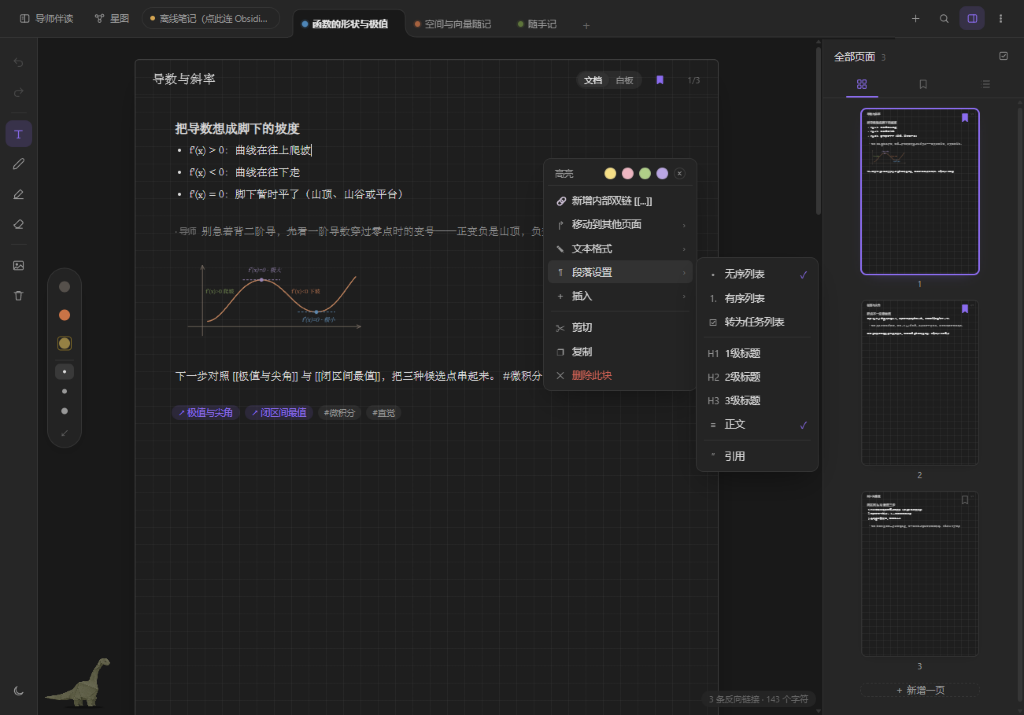
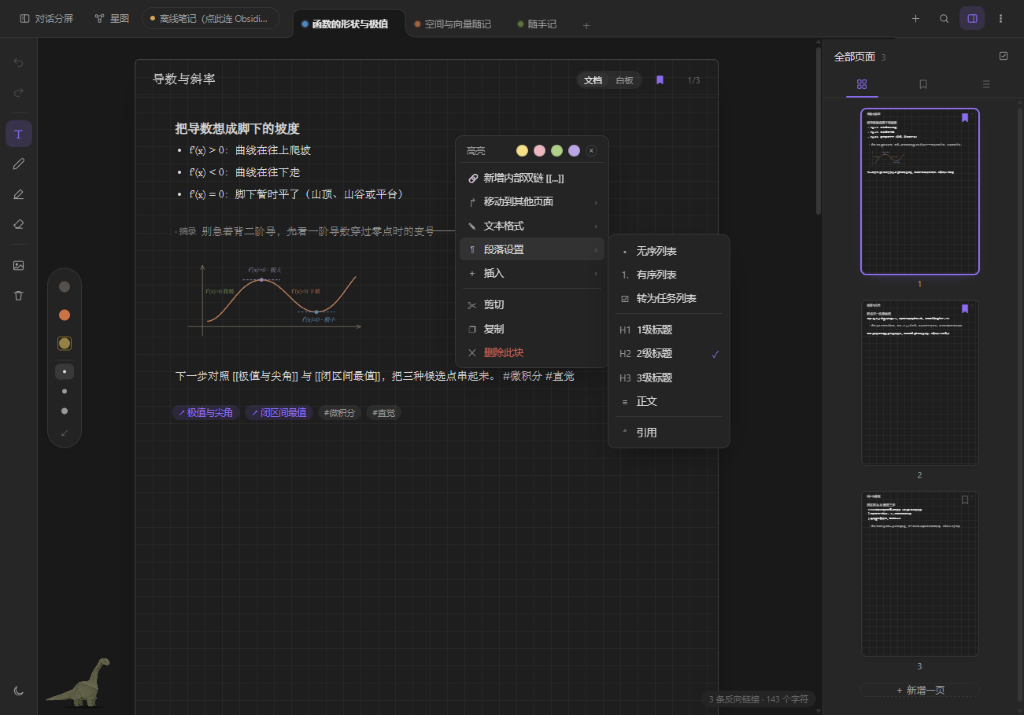
chore: decouple wording and refresh clean preview screenshots

diff --git a/index.html b/index.html
@@ -3,11 +3,11 @@
 <head>
 <meta charset="utf-8">
 <meta name="viewport" content="width=device-width, initial-scale=1">
-<title>AI 导师 · 伴读折纸笔记</title>
+<title>折纸笔记 · 对话长出笔记</title>
 <style>
 :root{
   --bg:#F5EAE1; --bg2:#EFE2D6; --ink:#5C493C; --ink2:#958476; --ink3:#B9AC9E; --line:#E3D5C7;
-  --field:#FBF4EC; --bubble:#EAE0D4; --paper:#FBF4E8; --paper-wb:#FFFDF9; --paper-ink:#4A433C; --tutor-note:#8C8278;
+  --field:#FBF4EC; --bubble:#EAE0D4; --paper:#FBF4E8; --paper-wb:#FFFDF9; --paper-ink:#4A433C; --quote-note:#8C8278;
   --accent:#4E86B8; --sel-bg:rgba(78,134,184,.18); --menu-bg:#FFFDF9; --menu-hover:rgba(120,100,70,.08);
   --soft:"Songti SC","STSong","Noto Serif SC","PingFang SC","Hiragino Sans GB","Microsoft YaHei UI",serif;
   --ui:"PingFang SC","Hiragino Sans GB","Segoe UI","Microsoft YaHei UI","Noto Sans SC",system-ui,sans-serif;
@@ -16,7 +16,7 @@
 }
 body.night{
   --bg:#262626; --bg2:#191919; --ink:#DADADA; --ink2:#999999; --ink3:#686868; --line:#363636;
-  --field:#242424; --bubble:#303030; --paper:#1E1E1E; --paper-wb:#1E1E1E; --paper-ink:#DCDCDC; --tutor-note:#909090;
+  --field:#242424; --bubble:#303030; --paper:#1E1E1E; --paper-wb:#1E1E1E; --paper-ink:#DCDCDC; --quote-note:#909090;
   --accent:#8B6CEF; --sel-bg:rgba(139,108,239,.32); --menu-bg:#242424; --menu-hover:#323232;
 }
 *{box-sizing:border-box;margin:0;padding:0}
@@ -35,7 +35,7 @@ body{background:var(--bg);color:var(--ink);font-family:var(--ui);transition:back
 .nav-btn svg{width:17px;height:17px;fill:none;stroke:currentColor;stroke-width:1.6;stroke-linecap:round;stroke-linejoin:round}
 .nav-sp{flex:1}
 
-/* ───── 左侧：AI 导师极简对话区 ───── */
+/* ───── 左侧：极简对话区 ───── */
 .chat-pane{flex:1;min-width:340px;display:flex;flex-direction:column;position:relative;padding:12px 24px 18px 16px}
 .chat-head{height:36px;display:flex;align-items:center;gap:10px;flex:none;color:var(--ink2);font-size:12.5px}
 .chat-back{width:28px;height:28px;border:0;border-radius:8px;background:transparent;color:var(--ink2);cursor:pointer;display:grid;place-items:center}
@@ -187,13 +187,13 @@ body.night .hl-purple{background-color:rgba(139,108,239,.24)!important}
 .rich h3{font:600 13.6px/1.5 var(--soft);margin:0 0 2px}
 .rich p{margin:2px 0}
 .rich ul,.rich ol{padding-left:18px;margin:2px 0}
-.rich blockquote{margin:3px 0;padding-left:9px;border-left:2px solid var(--accent);color:var(--tutor-note)}
+.rich blockquote{margin:3px 0;padding-left:9px;border-left:2px solid var(--accent);color:var(--quote-note)}
 .rich code{font-family:var(--mono);font-size:12px;background:color-mix(in srgb,var(--ink) 8%,transparent);padding:1px 4px;border-radius:4px}
 .task-row{display:flex;align-items:flex-start;gap:7px;padding:2px 4px;border-radius:8px;font:400 13.2px/1.82 var(--soft)}
 .task-row input{margin-top:5px;accent-color:var(--accent);cursor:pointer;flex:none}
 .task-row.done .task-txt{text-decoration:line-through;opacity:.55}
 .task-txt{flex:1;outline:none;cursor:text}
-.quote-row{padding:2px 4px;border-radius:8px;font:400 13px/1.84 var(--soft);color:var(--tutor-note);cursor:text}
+.quote-row{padding:2px 4px;border-radius:8px;font:400 13px/1.84 var(--soft);color:var(--quote-note);cursor:text}
 .quote-row .q-tag{font:400 10px var(--ui);opacity:.72;margin-right:6px;user-select:none}
 
 /* Obsidian 风格可拖拽右下角缩放图片块 */
@@ -287,7 +287,7 @@ body.night .thumb-card{background-image:linear-gradient(to right,rgba(255,255,25
 .tm-blk h1{font:700 22px/1.4 var(--soft)}
 .tm-blk h2{font:600 19px/1.45 var(--soft)}
 .tm-blk ul,.tm-blk ol{padding-left:22px}
-.tm-quote{color:var(--tutor-note);font-size:14.5px}
+.tm-quote{color:var(--quote-note);font-size:14.5px}
 .tm-img img{display:block;max-width:100%;height:auto;object-fit:contain}
 .tm-img.is-svg img{mix-blend-mode:multiply}
 body.night .tm-img.is-svg img{mix-blend-mode:normal;filter:invert(.88) hue-rotate(180deg)}
@@ -345,23 +345,23 @@ body.night .tm-img.is-svg img{mix-blend-mode:normal;filter:invert(.88) hue-rotat
 <div class="app">
   <!-- 最左极简导航栏 -->
   <nav class="nav-rail">
-    <div class="brand" title="AI 导师">
+    <div class="brand" title="折纸笔记">
       <svg viewBox="0 0 28 28" width="24" height="24"><path d="M5 7l10-3 8 7-6 13-11-4z" fill="#6F8F4A"/><path d="M15 4l8 7-11 2z" fill="#89A962"/></svg>
     </div>
     <button type="button" class="nav-btn" title="主页"><svg viewBox="0 0 24 24"><path d="M4 11l8-6.5L20 11v8.5a1 1 0 0 1-1 1h-4.5v-5.5h-5v5.5H5a1 1 0 0 1-1-1z"/></svg></button>
-    <button type="button" class="nav-btn on" id="navNbToggle" title="展开 / 收起右侧伴读笔记本"><svg viewBox="0 0 24 24"><path d="M4.5 6.5A2.5 2.5 0 0 1 7 4h11.5v16H7a2.5 2.5 0 0 0-2.5 2z"/><path d="M4.5 6.5v15.5"/></svg></button>
+    <button type="button" class="nav-btn on" id="navNbToggle" title="展开 / 收起右侧笔记本"><svg viewBox="0 0 24 24"><path d="M4.5 6.5A2.5 2.5 0 0 1 7 4h11.5v16H7a2.5 2.5 0 0 0-2.5 2z"/><path d="M4.5 6.5v15.5"/></svg></button>
     <a class="nav-btn" href="./desk.html" title="进入独立全屏折纸书桌"><svg viewBox="0 0 24 24"><rect x="4" y="4" width="16" height="16" rx="2.5"/><path d="M9 9h6M9 13h6M9 17h4"/></svg></a>
     <div class="nav-sp"></div>
     <button type="button" class="nav-btn" id="themeBtn" title="切换暗夜模式（Obsidian 炭黑）"><svg viewBox="0 0 24 24"><path d="M19.5 14.5A7.5 7.5 0 0 1 9.5 4.5a7.5 7.5 0 1 0 10 10z"/></svg></button>
   </nav>
 
-  <!-- 左侧：AI 导师极简对话区 -->
+  <!-- 左侧：极简对话区 -->
   <section class="chat-pane">
     <div class="chat-head">
       <button type="button" class="chat-back" title="返回"><svg viewBox="0 0 24 24"><path d="M15 6l-6 6 6 6"/></svg></button>
-      <span>微积分伴读 · 函数的形状与极值</span>
+      <span>微积分随聊 · 函数的形状与极值</span>
       <div class="chat-hint">
-        <span>划选导师文字可拖入右侧笔记</span>
+        <span>划选回复文字可拖入右侧笔记</span>
         <span class="vault-mini"><i id="vaultDot"></i><span id="vaultName">连接中…</span></span>
       </div>
     </div>
@@ -461,7 +461,7 @@ body.night .tm-img.is-svg img{mix-blend-mode:normal;filter:invert(.88) hue-rotat
   </aside>
 </div>
 
-<button type="button" class="dock-pill" id="dockPill" title="展开伴读笔记本">折纸笔记</button>
+<button type="button" class="dock-pill" id="dockPill" title="展开笔记本">折纸笔记</button>
 <div class="sel-handle" id="selHandle"><svg viewBox="0 0 24 24"><path d="M9 5h6M9 12h6M9 19h6"/></svg><span>拖入笔记</span></div>
 
 <div class="quick-add-pop" id="quickAddPop">
@@ -532,7 +532,7 @@ function mdToBlocks(md){
       blocks.push({ id: nextId('tk'), type: 'task', hl: '', done: /^-\s+\[[xX]\]/.test(l), text: l.replace(/^-\s+\[[ xX]\]\s+/,''), x:28, y:28+blocks.length*80, w:260, h:54 });
     } else if(/^>\s+/.test(l)){
       flush();
-      blocks.push({ id: nextId('q'), type: 'quote', hl: '', text: l.replace(/^>\s+/,'').replace(/^·\s*导师\s*/,''), x:28, y:28+blocks.length*95, w:280, h:82 });
+      blocks.push({ id: nextId('q'), type: 'quote', hl: '', text: l.replace(/^>\s+/,'').replace(/^·\s*摘录\s*/,''), x:28, y:28+blocks.length*95, w:280, h:82 });
     } else buf.push(l);
   }
   flush();
@@ -564,7 +564,7 @@ function pageToMarkdown(page){
   return page.blocks.map(b => {
     if(b.type==='text') return htmlToMd(b.html);
     if(b.type==='task') return `- [${b.done?'x':' '}] ${b.text||''}`;
-    if(b.type==='quote') return `> · 导师 ${b.text||''}`;
+    if(b.type==='quote') return `> · 摘录 ${b.text||''}`;
     if(b.type==='group') return `### ${b.label||'分组'}`;
     if(b.type==='web') return `[${b.label||b.url}](${b.url})`;
     return b.src && b.src.startsWith('data:') ? `![插图](${b.src})` : '';
@@ -798,7 +798,7 @@ function renderStage(){
         tr.append(cb, tt); content.appendChild(tr);
       } else if(blk.type === 'quote'){
         const qr = document.createElement('div'); qr.className = 'quote-row'+(blk.hl?' '+blk.hl:'');
-        const qt = document.createElement('span'); qt.className='q-tag'; qt.textContent='· 导师';
+        const qt = document.createElement('span'); qt.className='q-tag'; qt.textContent='· 摘录';
         const qb = document.createElement('span'); qb.contentEditable='true'; qb.textContent=blk.text||'';
         qb.oninput = () => { blk.text = qb.textContent; scheduleSavePage(book, pg); };
         qr.addEventListener('contextmenu', e => openBlockCtx(e, book, pg, blk, null));
@@ -883,7 +883,7 @@ function renderStage(){
         } else if(blk.type === 'image'){
           const im = document.createElement('img'); im.src = blk.src; nd.appendChild(im);
         } else if(blk.type === 'quote'){
-          nd.innerHTML = `<div class="quote-row"><span class="q-tag">· 导师</span>${escapeHtml(blk.text||'')}</div>`;
+          nd.innerHTML = `<div class="quote-row"><span class="q-tag">· 摘录</span>${escapeHtml(blk.text||'')}</div>`;
         } else if(blk.type === 'task'){
           nd.innerHTML = `<div class="task-row ${blk.done?'done':''}"><span>${blk.done?'☑':'☐'}</span><span>${escapeHtml(blk.text||'')}</span></div>`;
         } else if(blk.type === 'web'){
@@ -1086,7 +1086,7 @@ function openBoardCtx(e, book, page, boardL){
   ctxMenu.style.top = Math.max(8, Math.min(innerHeight - r.height - 8, e.clientY)) + 'px';
 }
 
-/* ───── 文字块拖拽调序 + 导师划词拖拽（均带清晰落地线） ───── */
+/* ───── 文字块拖拽调序 + 对话划词拖拽（均带清晰落地线） ───── */
 function startBlkDrag(e, book, page, blk, rowEl, blksWrap, dropLine){
   e.preventDefault(); e.stopPropagation();
   const ghost = document.createElement('div'); ghost.className = 'blk-drag-ghost';
@@ -1171,7 +1171,7 @@ addEventListener('mouseup', () => {
   }
 });
 
-/* ───── 左侧导师回复划词拖拽 ───── */
+/* ───── 左侧对话回复划词拖拽 ───── */
 const selHandle = $('selHandle');
 let pendingSelText = '';
 document.addEventListener('selectionchange', () => {
@@ -1190,7 +1190,7 @@ selHandle.addEventListener('mousedown', e => {
   e.preventDefault(); selHandle.classList.remove('show');
   if(APP.docked) setDocked(false);
   const ghost = document.createElement('div'); ghost.className = 'blk-drag-ghost';
-  ghost.textContent = '· 导师 ' + pendingSelText.slice(0, 28);
+  ghost.textContent = '· 摘录 ' + pendingSelText.slice(0, 28);
   ghost.style.left = (e.clientX+12)+'px'; ghost.style.top = (e.clientY-12)+'px';
   document.body.appendChild(ghost);
   selDrag = { text: pendingSelText, ghost, dropTarget: null };
@@ -1385,7 +1385,7 @@ function renderDrawer(){
       const mini = document.createElement('div'); mini.className = 'thumb-mini-stage';
       const blks = (pg.blocks||[]).map(b => {
         if(b.type==='text') return `<div class="tm-blk ${b.hl||''}">${b.html||''}</div>`;
-        if(b.type==='quote') return `<div class="tm-blk tm-quote ${b.hl||''}">· 导师 ${escapeHtml(b.text||'')}</div>`;
+        if(b.type==='quote') return `<div class="tm-blk tm-quote ${b.hl||''}">· 摘录 ${escapeHtml(b.text||'')}</div>`;
         if(b.type==='task') return `<div class="tm-blk">${b.done?'☑':'☐'} ${escapeHtml(b.text||'')}</div>`;
         if(b.type==='image') return `<div class="tm-blk tm-img ${b.isSvg?'is-svg':''}"><img src="${b.src}" style="width:${b.imgW||240}px"></div>`;
         return '';

diff --git a/desk.html b/desk.html
@@ -8,7 +8,7 @@
 :root{
   --bg:#F5EAE1; --bg2:#EFE2D6; --ink:#5C493C; --ink2:#958476; --ink3:#B9AC9E; --line:#E3D5C7;
   --field:#FBF4EC; --go:#B4693A; --go-ink:#FBF4EC;
-  --paper:#FBF4E8; --paper-wb:#FFFDF9; --paper-ink:#4A433C; --tutor-note:#8C8278;
+  --paper:#FBF4E8; --paper-wb:#FFFDF9; --paper-ink:#4A433C; --quote-note:#8C8278;
   --accent:#4E86B8; --sel-bg:rgba(78,134,184,.18); --menu-bg:#FFFDF9; --menu-hover:rgba(120,100,70,.08);
   --hand:"KaiTi","STKaiti","Kaiti SC","楷体",serif;
   --soft:"Songti SC","STSong","Noto Serif SC","PingFang SC","Hiragino Sans GB","Microsoft YaHei UI",serif;
@@ -19,7 +19,7 @@
 body.night{
   --bg:#262626; --bg2:#191919; --ink:#DADADA; --ink2:#999999; --ink3:#686868; --line:#363636;
   --field:#242424; --go:#9B7BF7; --go-ink:#FFFFFF;
-  --paper:#1E1E1E; --paper-wb:#1E1E1E; --paper-ink:#DCDCDC; --tutor-note:#909090;
+  --paper:#1E1E1E; --paper-wb:#1E1E1E; --paper-ink:#DCDCDC; --quote-note:#909090;
   --accent:#8B6CEF; --sel-bg:rgba(139,108,239,.32); --menu-bg:#242424; --menu-hover:#323232;
 }
 *{box-sizing:border-box;margin:0;padding:0}
@@ -173,7 +173,7 @@ body.night .hl-purple{background-color:rgba(139,108,239,.24)!important}
 .rich p,.ProseMirror p{margin:2px 0}
 .rich ul,.ProseMirror ul,.rich ol,.ProseMirror ol{padding-left:18px;margin:2px 0}
 .rich li,.ProseMirror li{margin:2px 0}
-.rich blockquote,.ProseMirror blockquote{margin:3px 0;padding-left:10px;border-left:2px solid color-mix(in srgb,var(--accent) 55%,var(--ink3));color:var(--tutor-note)}
+.rich blockquote,.ProseMirror blockquote{margin:3px 0;padding-left:10px;border-left:2px solid color-mix(in srgb,var(--accent) 55%,var(--ink3));color:var(--quote-note)}
 .rich code,.ProseMirror code{font-family:var(--mono);font-size:12.5px;background:color-mix(in srgb,var(--ink) 8%,transparent);padding:1px 5px;border-radius:4px}
 .rich pre,.ProseMirror pre{margin:5px 0;padding:8px 11px;border-radius:6px;background:color-mix(in srgb,var(--ink) 6%,transparent);font:12.5px/1.6 var(--mono);overflow-x:auto}
 .rich hr,.ProseMirror hr{border:0;border-top:1px solid var(--line);margin:8px 0}
@@ -184,7 +184,7 @@ body.night .hl-purple{background-color:rgba(139,108,239,.24)!important}
 .task-row.done .task-txt{text-decoration:line-through;opacity:.55}
 .task-txt{flex:1;outline:none;min-height:22px}
 
-.quote-row{padding:3px 5px;border-radius:8px;font:400 13.5px/1.88 var(--soft);color:var(--tutor-note);transition:background-color .16s,padding .16s}
+.quote-row{padding:3px 5px;border-radius:8px;font:400 13.5px/1.88 var(--soft);color:var(--quote-note);transition:background-color .16s,padding .16s}
 .quote-row .q-tag{font:400 10.5px var(--ui);opacity:.7;margin-right:7px;user-select:none}
 .img-row{position:relative;padding:4px;border-radius:8px;display:inline-block;max-width:100%;border:1px solid transparent;transition:border-color .15s}
 .img-row:hover,.img-row.resizing{border-color:color-mix(in srgb,var(--accent) 45%,transparent)}
@@ -306,8 +306,8 @@ body.night .thumb-card.lined{background-image:linear-gradient(to bottom,rgba(255
 .tm-blk h3{font:600 16.5px/1.5 var(--soft);margin:0 0 4px}
 .tm-blk p{margin:3px 0}
 .tm-blk ul,.tm-blk ol{padding-left:22px;margin:3px 0}
-.tm-blk blockquote{margin:4px 0;padding-left:12px;border-left:3px solid var(--accent);color:var(--tutor-note)}
-.tm-quote{color:var(--tutor-note);font-size:14.5px;padding:4px 8px}
+.tm-blk blockquote{margin:4px 0;padding-left:12px;border-left:3px solid var(--accent);color:var(--quote-note)}
+.tm-quote{color:var(--quote-note);font-size:14.5px;padding:4px 8px}
 .tm-task{display:flex;align-items:flex-start;gap:8px;font-size:15px}
 .tm-task.done{text-decoration:line-through;opacity:.55}
 .tm-img img{display:block;max-width:100%;max-height:300px;object-fit:contain;border-radius:6px}
@@ -404,9 +404,9 @@ body.night .tm-img.is-svg img{mix-blend-mode:normal;filter:invert(.88) hue-rotat
 <!-- 顶栏 -->
 <header class="topbar">
   <div class="top-left">
-    <a class="tbtn" id="tutorLink" href="./index.html" style="text-decoration:none" title="预览接入 AI 导师聊天旁的伴读形态">
+    <a class="tbtn" id="splitLink" href="./index.html" style="text-decoration:none" title="切换为对话 + 笔记双栏视图">
       <svg viewBox="0 0 24 24"><rect x="3.5" y="4.5" width="17" height="15" rx="2.5"/><path d="M12 4.5v15"/><path d="M6.5 9.5h3M6.5 13h2.5"/></svg>
-      <span>导师伴读</span>
+      <span>对话分屏</span>
     </a>
     <button type="button" class="tbtn" id="graphToggle" title="本地知识星图可视化">
       <svg viewBox="0 0 24 24"><circle cx="6" cy="7" r="2.5"/><circle cx="18" cy="6" r="2.5"/><circle cx="12" cy="17" r="2.8"/><path d="M8.2 8.2L10.6 14.6M16.2 7.8L13.5 14.6M8.5 6.8L15.5 6.2"/></svg>
@@ -586,9 +586,9 @@ function mdToBlocks(md=''){
   };
   for(const line of lines){
     const tr = line.trim();
-    if(tr.startsWith('> 导师：') || tr.startsWith('> · 导师')){
+    if(tr.startsWith('> 摘录：') || tr.startsWith('> · 摘录')){
       flush();
-      blocks.push({ id: nextId('q'), type: 'quote', hl: '', text: tr.replace(/^>\s*(·\s*)?导师[：:]?\s*/, ''), x: 350, y: 40 + blocks.length * 110, w: 280, h: 100 });
+      blocks.push({ id: nextId('q'), type: 'quote', hl: '', text: tr.replace(/^>\s*(·\s*)?摘录[：:]?\s*/, ''), x: 350, y: 40 + blocks.length * 110, w: 280, h: 100 });
     } else if(/^- \[([ xX])\]\s+/.test(tr)){
       flush();
       const m = tr.match(/^- \[([ xX])\]\s+(.*)$/);
@@ -649,7 +649,7 @@ function pageToMarkdown(page){
   const parts = [];
   (page.blocks || []).forEach(b => {
     if(b.type === 'text'){ const m = htmlToMd(b.html); if(m) parts.push(m); }
-    else if(b.type === 'quote'){ if(b.text) parts.push('> 导师：' + b.text); }
+    else if(b.type === 'quote'){ if(b.text) parts.push('> 摘录：' + b.text); }
     else if(b.type === 'task'){ parts.push(`- [${b.done?'x':' '}] ${b.text||''}`); }
   });
   return parts.join('\n\n');
@@ -1387,7 +1387,7 @@ function renderBookStage(){
         tr.appendChild(cb); tr.appendChild(txt); content.appendChild(tr);
       } else if(blk.type === 'quote'){
         const q = document.createElement('div'); q.className = 'quote-row' + (blk.hl ? ' ' + blk.hl : '');
-        q.innerHTML = '<span class="q-tag">· 导师</span><span></span>'; q.lastChild.textContent = blk.text;
+        q.innerHTML = '<span class="q-tag">· 摘录</span><span></span>'; q.lastChild.textContent = blk.text;
         content.appendChild(q);
       } else if(blk.type === 'web'){
         const w = document.createElement('div'); w.className = 'quote-row';
@@ -1625,7 +1625,7 @@ function buildBoardLayer(layer, book, page){
       node.innerHTML = `<div class="task-row ${blk.done?'done':''}"><input type="checkbox" ${blk.done?'checked':''}><span class="task-txt">${escapeHtml(blk.text||'')}</span></div>`;
       node.querySelector('input').onchange = ev => { blk.done = ev.target.checked; scheduleSavePage(book, page); renderBookStage(); };
     } else if(blk.type === 'quote'){
-      node.innerHTML = `<div class="quote-row"><span class="q-tag">· 导师</span>${escapeHtml(blk.text)}</div>`;
+      node.innerHTML = `<div class="quote-row"><span class="q-tag">· 摘录</span>${escapeHtml(blk.text)}</div>`;
     } else if(blk.type === 'web'){
       node.innerHTML = `<a href="${escapeHtml(blk.url||'#')}" target="_blank" style="color:var(--accent);text-decoration:none">↗ ${escapeHtml(blk.label||blk.url)}</a>`;
     } else if(blk.type === 'image'){
@@ -1952,7 +1952,7 @@ function exportPagesAsHtml(book, pages, fileTitle){
     const blks = pg.blocks.map(b => {
       if(b.type==='text') return `<div class="blk ${b.hl||''}">${b.html}</div>`;
       if(b.type==='task') return `<div class="blk ${b.hl||''}">${b.done?'☑':'☐'} ${escapeHtml(b.text||'')}</div>`;
-      if(b.type==='quote') return `<div class="blk q ${b.hl||''}">· 导师 ${escapeHtml(b.text||'')}</div>`;
+      if(b.type==='quote') return `<div class="blk q ${b.hl||''}">· 摘录 ${escapeHtml(b.text||'')}</div>`;
       return `<div class="blk"><img src="${b.src}" style="max-width:100%"></div>`;
     }).join('');
     const ink = strokesToSvg(pg.strokes || []);
@@ -2165,7 +2165,7 @@ function renderDrawer(){
         }).join('');
         const nodesHtml = pg.blocks.map(b => {
           const st = `left:${b.x||36}px;top:${b.y||36}px;width:${b.w||240}px;height:${b.h||96}px`;
-          const inner = b.type==='image' ? `<img src="${b.src}">` : b.type==='quote' ? `<div class="tm-quote">· 导师 ${escapeHtml(b.text||'')}</div>` : b.type==='task' ? `<div class="tm-task ${b.done?'done':''}"><span>${b.done?'☑':'☐'}</span><span>${escapeHtml(b.text||'')}</span></div>` : (b.html||'');
+          const inner = b.type==='image' ? `<img src="${b.src}">` : b.type==='quote' ? `<div class="tm-quote">· 摘录 ${escapeHtml(b.text||'')}</div>` : b.type==='task' ? `<div class="tm-task ${b.done?'done':''}"><span>${b.done?'☑':'☐'}</span><span>${escapeHtml(b.text||'')}</span></div>` : (b.html||'');
           return `<div class="tm-wb-node ${b.hl||''}" style="${st}">${inner}</div>`;
         }).join('');
         innerHtml += `<div class="tm-board"><svg class="tm-wb-svg" viewBox="0 0 760 880">${edgePaths}</svg>${nodesHtml}</div>`;
@@ -2173,7 +2173,7 @@ function renderDrawer(){
         const blksHtml = (pg.blocks||[]).map(b => {
           if(b.type === 'text') return `<div class="tm-blk ${b.hl||''}">${b.html||''}</div>`;
           if(b.type === 'task') return `<div class="tm-blk tm-task ${b.hl||''} ${b.done?'done':''}"><span>${b.done?'☑':'☐'}</span><span>${escapeHtml(b.text||'')}</span></div>`;
-          if(b.type === 'quote') return `<div class="tm-blk tm-quote ${b.hl||''}">· 导师 ${escapeHtml(b.text||'')}</div>`;
+          if(b.type === 'quote') return `<div class="tm-blk tm-quote ${b.hl||''}">· 摘录 ${escapeHtml(b.text||'')}</div>`;
           return `<div class="tm-blk tm-img ${b.isSvg?'is-svg':''}"><img src="${b.src}" style="width:${b.imgW||260}px"></div>`;
         }).join('');
         innerHtml += `<div class="tm-doc">${blksHtml}</div>`;

diff --git a/obsidian_bridge.py b/obsidian_bridge.py
@@ -262,7 +262,7 @@ class BridgeHandler(http.server.SimpleHTTPRequestHandler):
             return self._send_json({"ok": True, "vaultPath": str(load_vault_path())})
         if parsed.path == "/api/vault":
             return self._send_json(scan_vault(load_vault_path()))
-        if parsed.path in ("/", "", "/tutor", "/tutor/"):
+        if parsed.path in ("/", "", "/split", "/split/"):
             self.path = "/index.html"
         elif parsed.path in ("/desk", "/desk/"):
             self.path = "/desk.html"

diff --git a/README.md b/README.md
@@ -5,20 +5,20 @@
 [![Zero Build](https://img.shields.io/badge/Build-Zero%20Dependency%20HTML-6E8A42.svg)](#快速体验)
 [![Obsidian Compatible](https://img.shields.io/badge/Storage-Local%20Obsidian%20Vault-8B6CEF.svg)](#连接本地-obsidian-库可选)
 
-> **在对话旁长出笔记**——在极简 AI 伴读聊天里随手划选任意一句话，拖进右侧 A4 折纸笔记本，即时生长为结构化文档、自由白板、矢量涂鸦与本地 Obsidian 知识星图。
+> **在对话旁长出笔记**——在极简 AI 对话里随手划选任意一句话，拖进右侧 A4 折纸笔记本，即时生长为结构化文档、自由白板、矢量涂鸦与本地 Obsidian 知识星图。
 
 🔗 **在线试玩（免安装，纯浏览器即开即用）**：
-- **伴读分屏（主界面）**：https://starity777-byte.github.io/origami-notes/
+- **对话分屏（主界面）**：https://starity777-byte.github.io/origami-notes/
 - **独立书桌 & 知识星图**：https://starity777-byte.github.io/origami-notes/desk.html
 
 ---
 
 ## 界面预览
 
-### 1. 伴读分屏：对话直接长出笔记（日间折纸风）
-左侧极简对话，右侧统一 A4 比例连续书页、连续曲率 SVG 液态页签与整齐一体化的编辑工具条。划选导师回复中的任意片段，拖过中缝即可带落地线插入笔记。
+### 1. 对话分屏：对话直接长出笔记（日间折纸风）
+左侧极简对话，右侧统一 A4 比例连续书页、连续曲率 SVG 液态页签与整齐一体化的编辑工具条。划选对话回复中的任意片段，拖过中缝即可带落地线插入笔记。
 
-![AI 导师伴读分屏](assets/preview-tutor.png)
+![对话分屏主界面](assets/preview-split.png)
 
 ### 2. 文档 / 白板同源切换 & Obsidian Canvas 风格右键菜单
 同一页笔记一键切为自由白板（自动适应分屏宽度，支持平移缩放、网格/物体对齐与只读锁定）；右键白板空白处即可添加文本、已有笔记、图片、网页或分组，悬停图片可拖拽右下角无级缩放。
@@ -37,7 +37,7 @@
 - **对话长出笔记**：在聊天流中自由划词出现拖拽把手，拖入右侧文档页（带横向落地指示线）或白板页（落点坐标），零复制粘贴阻力。
 - **双视图共用数据**：文档页（A4 小方格纸、双击空白防误触加块、拖拽排序落地线、完整圆角荧光高亮）与白板页（自由摆放、缩放、连线、分组、Canvas 右键菜单）随时切换不丢内容。
 - **手绘矢量涂鸦与图片缩放**：支持钢笔、荧光笔、橡皮与撤销，涂鸦独立存为 `.ink.svg`；图片块悬停右下角 L 形角标即可像 Obsidian 一样自由拖拽调宽。
-- **连续曲率液态页签 & 边缘收纳**：基于弹簧插值（`Spring(380, 28)`）的无缝页签；伴读分屏支持拖笔记本左边缘自由调宽，拖窄后液态收纳为右侧边缘书签条。
+- **连续曲率液态页签 & 边缘收纳**：基于弹簧插值（`Spring(380, 28)`）的无缝页签；对话分屏支持拖笔记本左边缘自由调宽，拖窄后液态收纳为右侧边缘书签条。
 - **本地优先、开箱即用**：纯静态单文件 HTML + 零第三方后端依赖，内置虚构示例数据，离线双击即可体验；可选搭配 0 依赖 Python 桥接脚本直连本地 Obsidian Vault。
 
 ---
@@ -46,7 +46,7 @@
 
 ### 方式一：纯静态直接打开（无需安装任何环境）
 下载或克隆仓库后，直接用浏览器双击打开：
-- `index.html` — AI 伴读分屏主界面（内置虚构示例对话与 3 本示例笔记，纯离线假数据即可完整交互）
+- `index.html` — 对话 + 笔记双栏主界面（内置虚构示例对话与 3 本示例笔记，纯离线假数据即可完整交互）
 - `desk.html` — 独立全屏折纸书桌与本地知识星图
 
 ### 方式二：连接本地 Obsidian 库（可选）
@@ -66,7 +66,7 @@ Windows 用户也可直接双击 `start.bat`。启动后访问 `http://127.0.0.1
 
 ```text
 origami-notes/
-├── index.html          # AI 伴读分屏主入口（对话长出笔记）
+├── index.html          # 对话 + 笔记双栏主入口（对话长出笔记）
 ├── desk.html           # 独立全屏书桌（结构缩略图 / 多选导出 / 知识星图）
 ├── obsidian_bridge.py  # 可选：零依赖本地 Obsidian Vault 读写桥接服务
 ├── start.bat           # Windows 一键启动脚本

diff --git a/demo-vault/函数的形状与极值/03-闭区间最值.md b/demo-vault/函数的形状与极值/03-闭区间最值.md
@@ -8,6 +8,6 @@ viewMode: doc
 ---
 闭区间 [a, b] 最值三步列出区间内部所有驻点和不可导的尖角（见 [[极值与尖角]]）把左右两个端点 a、b 一起拉进候选名单全部算出函数值，直接比大小
 
-> 导师：闭区间最值是一场海拔擂台赛，两个边界端点随时可能直接夺冠。
+> 摘录：闭区间最值是一场海拔擂台赛，两个边界端点随时可能直接夺冠。
 
 <!-- origami-state:{"blocks": [{"id": "b301", "type": "text", "hl": "hl-yellow", "html": "<h2>闭区间 [a, b] 最值三步</h2><ol><li>列出区间内部所有驻点和不可导的尖角（见 [[极值与尖角]]）</li><li>把左右两个端点 a、b 一起拉进候选名单</li><li>全部算出函数值，直接比大小</li></ol>", "x": 28, "y": 28, "w": 330, "h": 156}, {"id": "b302", "type": "quote", "hl": "", "text": "闭区间最值是一场海拔擂台赛，两个边界端点随时可能直接夺冠。", "x": 28, "y": 210, "w": 320, "h": 88}], "edges": [], "customOutline": []} -->

diff --git a/demo-vault/函数的形状与极值/01-导数与斜率.md b/demo-vault/函数的形状与极值/01-导数与斜率.md
@@ -8,7 +8,7 @@ viewMode: doc
 ---
 把导数想成脚下的坡度f'(x) > 0：曲线在往上爬坡f'(x) < 0：曲线在往下走f'(x) = 0：脚下暂时平了（山顶、山谷或平台）
 
-> 导师：别急着背二阶导，先看一阶导数穿过零点时的变号——正变负是山顶，负变正是山谷。
+> 摘录：别急着背二阶导，先看一阶导数穿过零点时的变号——正变负是山顶，负变正是山谷。
 
 下一步对照 [[极值与尖角]] 与 [[闭区间最值]]，把三种候选点串起来。 #微积分 #直觉
 

diff --git a/demo-vault/函数的形状与极值/02-极值与尖角.md b/demo-vault/函数的形状与极值/02-极值与尖角.md
@@ -8,7 +8,7 @@ viewMode: doc
 ---
 驻点不一定是极值比如 f(x) = x³ 在零点斜率为 0，但左右两边都在往上走，只是半山腰停顿了一下。
 
-> 导师：尖角像折纸的折痕，比如 y = |x| 的谷底，虽然没有平滑切线，但照样比左右两边都低。
+> 摘录：尖角像折纸的折痕，比如 y = |x| 的谷底，虽然没有平滑切线，但照样比左右两边都低。
 
 回到 [[导数与斜率]] 复习坡度变号，或直接看 [[闭区间最值]] 的擂台赛比喻。 #微积分 #易错点
 
